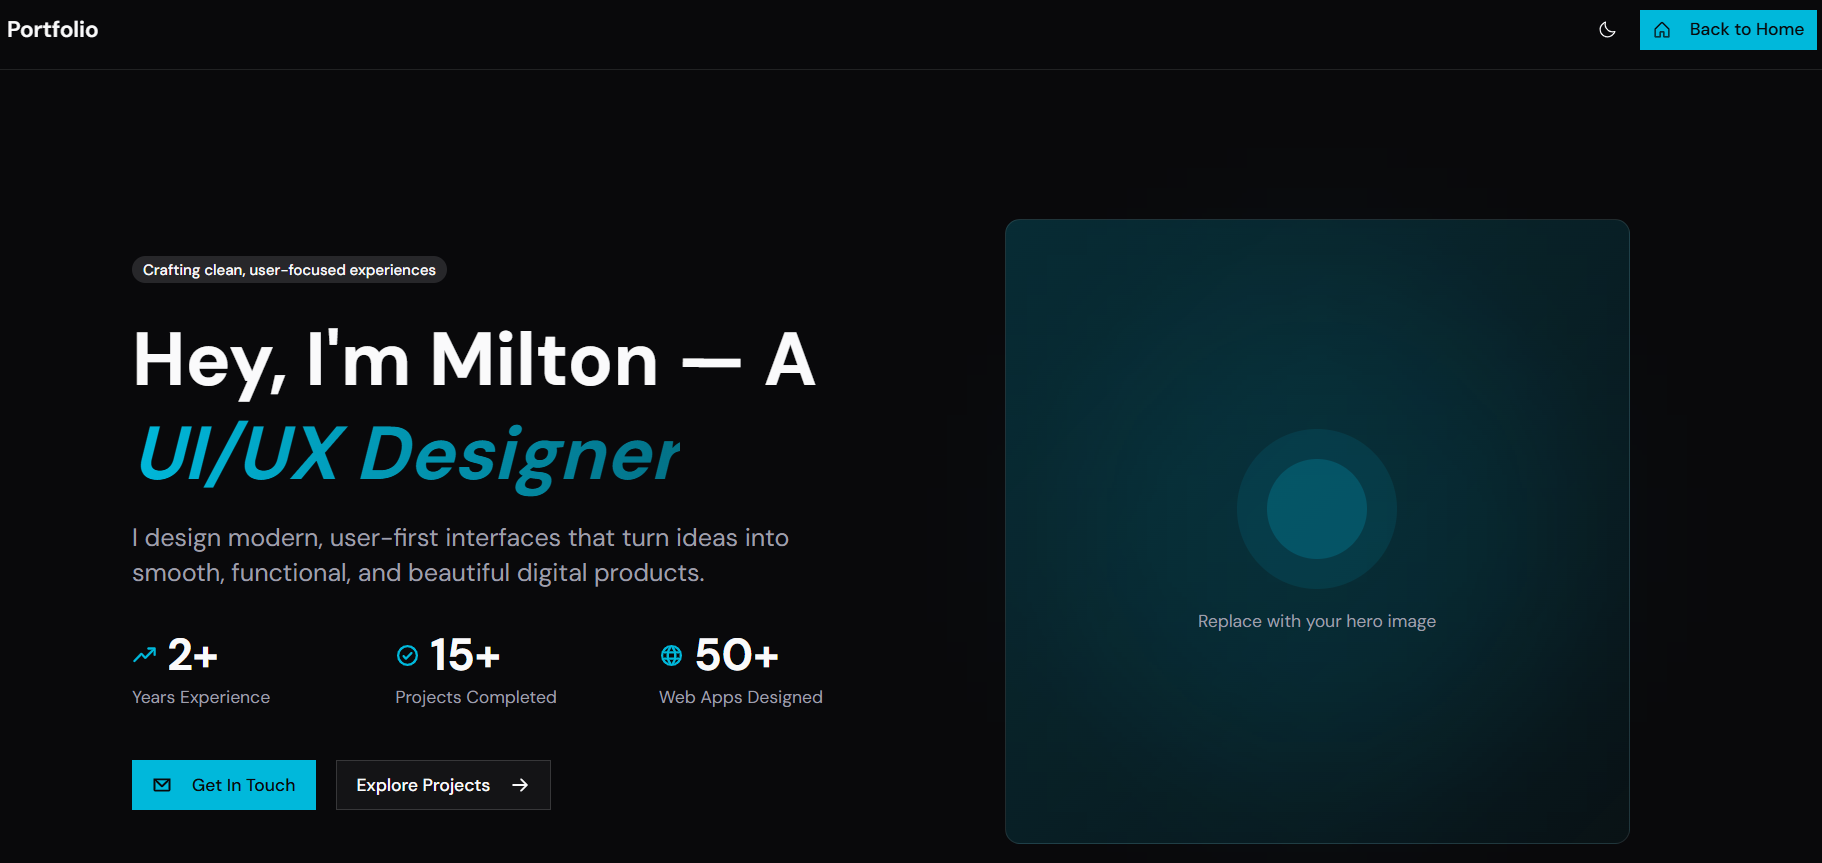
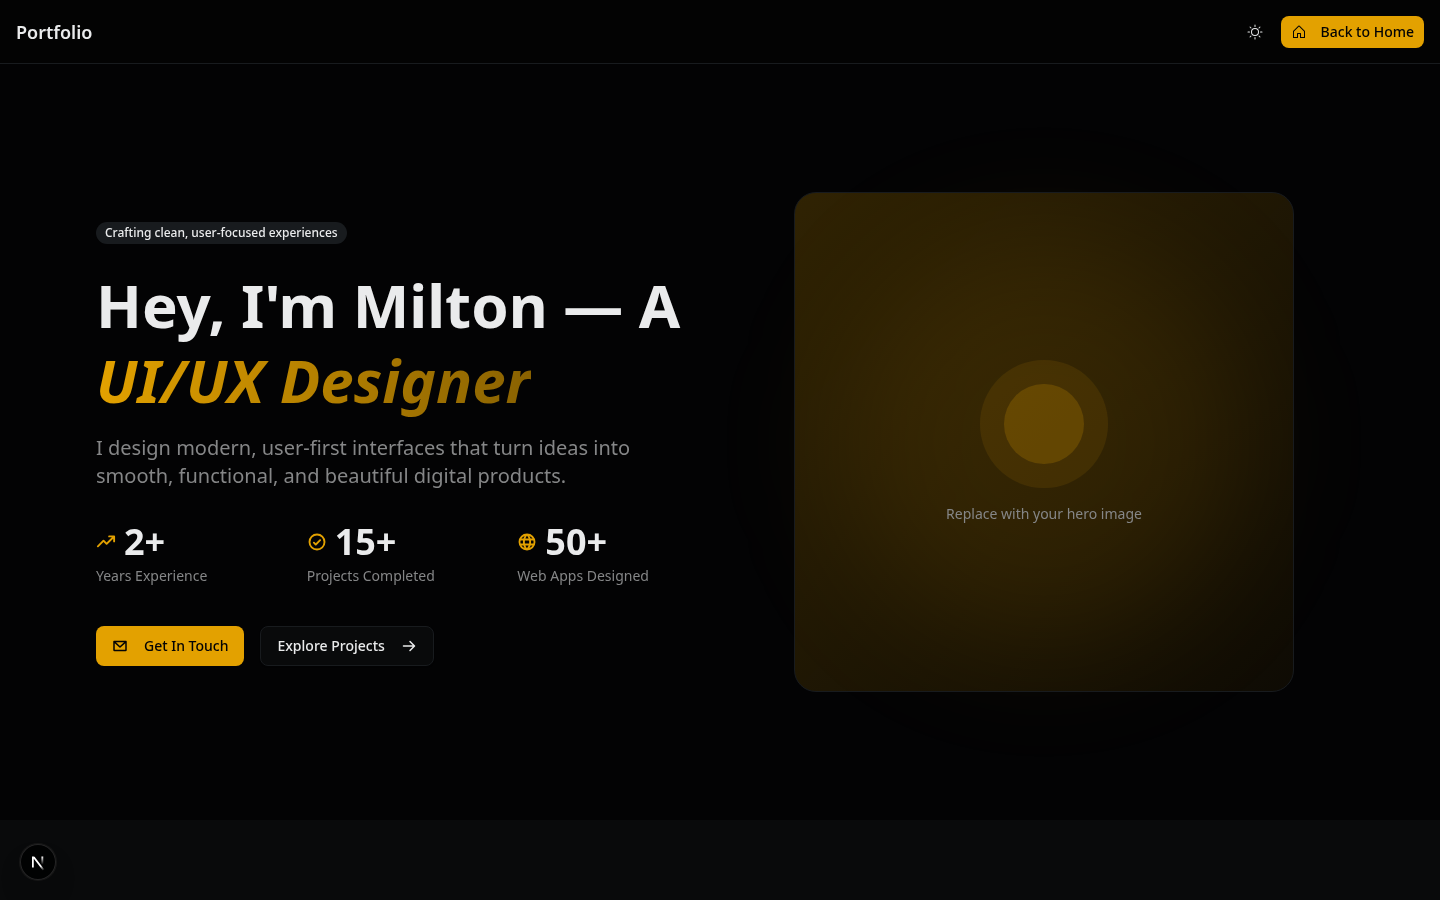
Add CLAUDE.md and update screenshots
- Add CLAUDE.md with build commands, tech stack, architecture overview,
  and key patterns for Claude Code guidance
- Update all screenshots with proper centering (1440x900 viewport)
- Add playwright as dev dependency for automated screenshot generation

diff --git a/CLAUDE.md b/CLAUDE.md
@@ -1,0 +1,84 @@
+# CLAUDE.md
+
+This file provides guidance to Claude Code (claude.ai/code) when working with code in this repository.
+
+## Build Commands
+
+```bash
+npm run dev      # Start development server on localhost:3000
+npm run build    # Production build
+npm run start    # Run production server
+npm run lint     # Run ESLint
+```
+
+## Tech Stack
+
+- **Next.js 16.1.1** with App Router
+- **React 19.2.3**
+- **TypeScript** (target ES2017, path alias `@/*` maps to `./src/*`)
+- **Tailwind CSS 4** with PostCSS
+- **shadcn/ui** (New York style, zinc base color)
+- **Recharts** for data visualization
+- **TanStack Table** for sortable/filterable tables
+- **Phosphor Icons** (duotone weight) and Lucide Icons
+- **next-themes** for dark/light mode
+
+## Architecture
+
+### Route Structure
+- `/` - Landing page (`src/app/page.tsx`)
+- `/dashboard` - Main trading dashboard with sidebar layout
+- `/portfolio` - Portfolio landing page
+
+### Component Organization
+- `src/components/ui/` - shadcn/ui primitives (Button, Card, Table, etc.)
+- `src/components/dashboard/` - Trading dashboard components (PortfolioOverview, HoldingsTable, charts)
+- `src/components/portfolio/` - Portfolio page sections
+- `src/components/showcase/` - Component demos
+
+### Data Layer
+All trading data is mock data in `src/lib/trading-data.ts`:
+- `holdings` - Array of 18 holdings across 5 asset types (stock, etf, crypto, metal, forex)
+- `portfolioOverview` - Computed portfolio metrics
+- `assetAllocation` - Asset breakdown with colors
+- `performanceData` - 12 months of historical values
+- Helper functions: `formatCurrency()`, `formatPercent()`, `getHoldingsByType()`
+
+### Layout Hierarchy
+```
+RootLayout (ThemeProvider)
+  └── DashboardLayout (SidebarProvider + DashboardSidebar)
+        └── Page content
+```
+
+## Key Patterns
+
+### Class Merging
+Use the `cn()` utility from `lib/utils.ts` for conditional Tailwind classes:
+```typescript
+className={cn("base-classes", condition && "conditional-classes", className)}
+```
+
+### Component Variants (CVA)
+shadcn/ui components use class-variance-authority for variants (see `button.tsx` for example).
+
+### Client Components
+Add `'use client'` directive for components using hooks or interactivity.
+
+### Adding shadcn/ui Components
+```bash
+npx shadcn@latest add <component-name>
+```
+
+## Theming
+
+CSS variables in `globals.css` use OKLch color space. Key custom colors:
+- Gold accent: `--gold` (primary in dark mode)
+- Chart colors: `--chart-1` through `--chart-5`
+- Status colors: `--success`, `--warning`, `--error`
+
+## Asset Type System
+
+Asset types used throughout: `'stock' | 'etf' | 'crypto' | 'metal' | 'forex'`
+
+Each has an assigned color in `assetColors` mapping for consistent chart/badge styling.
